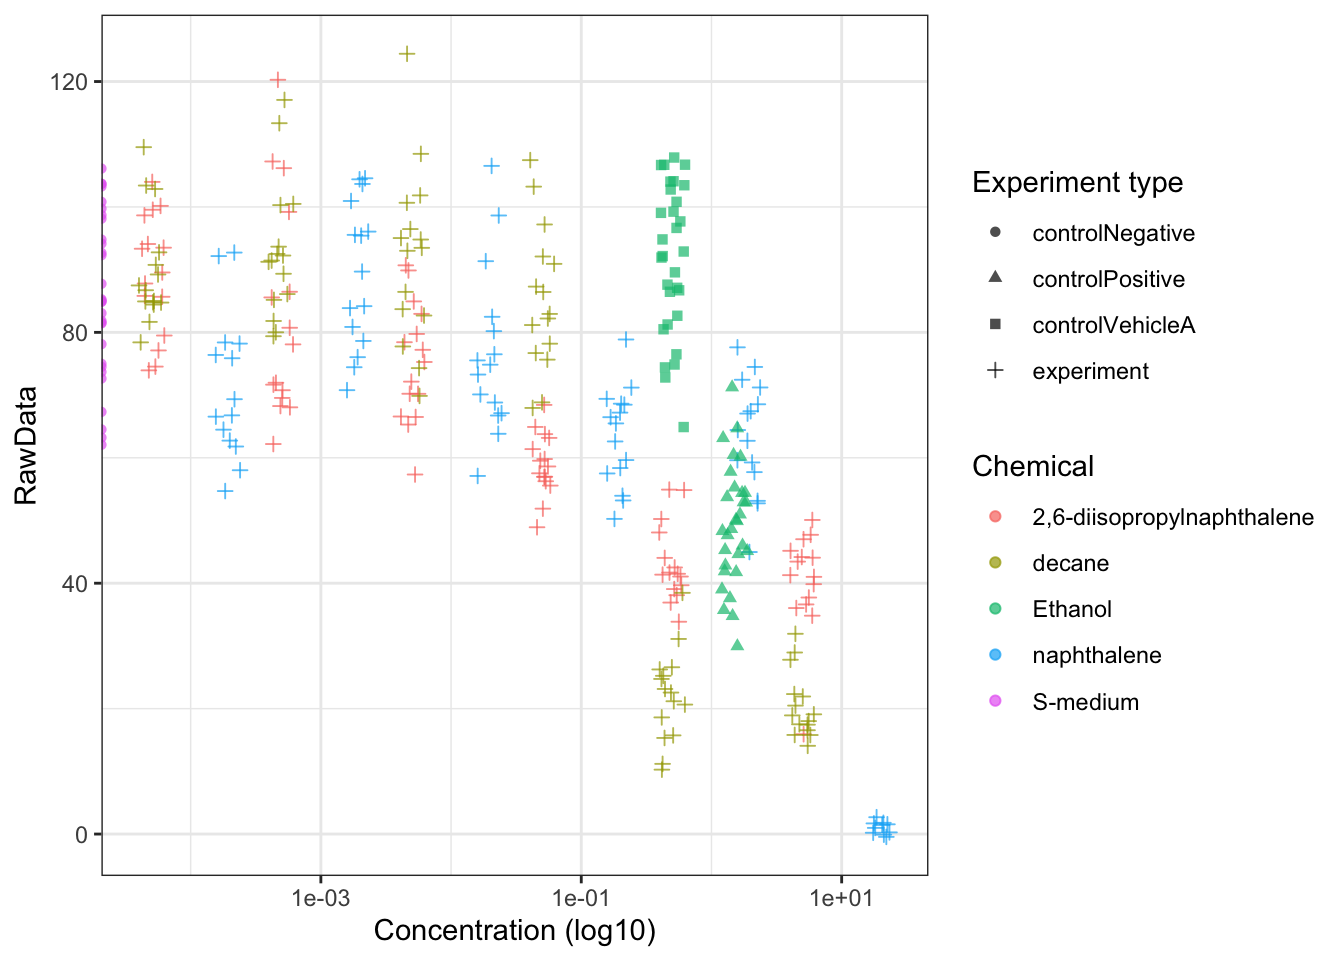
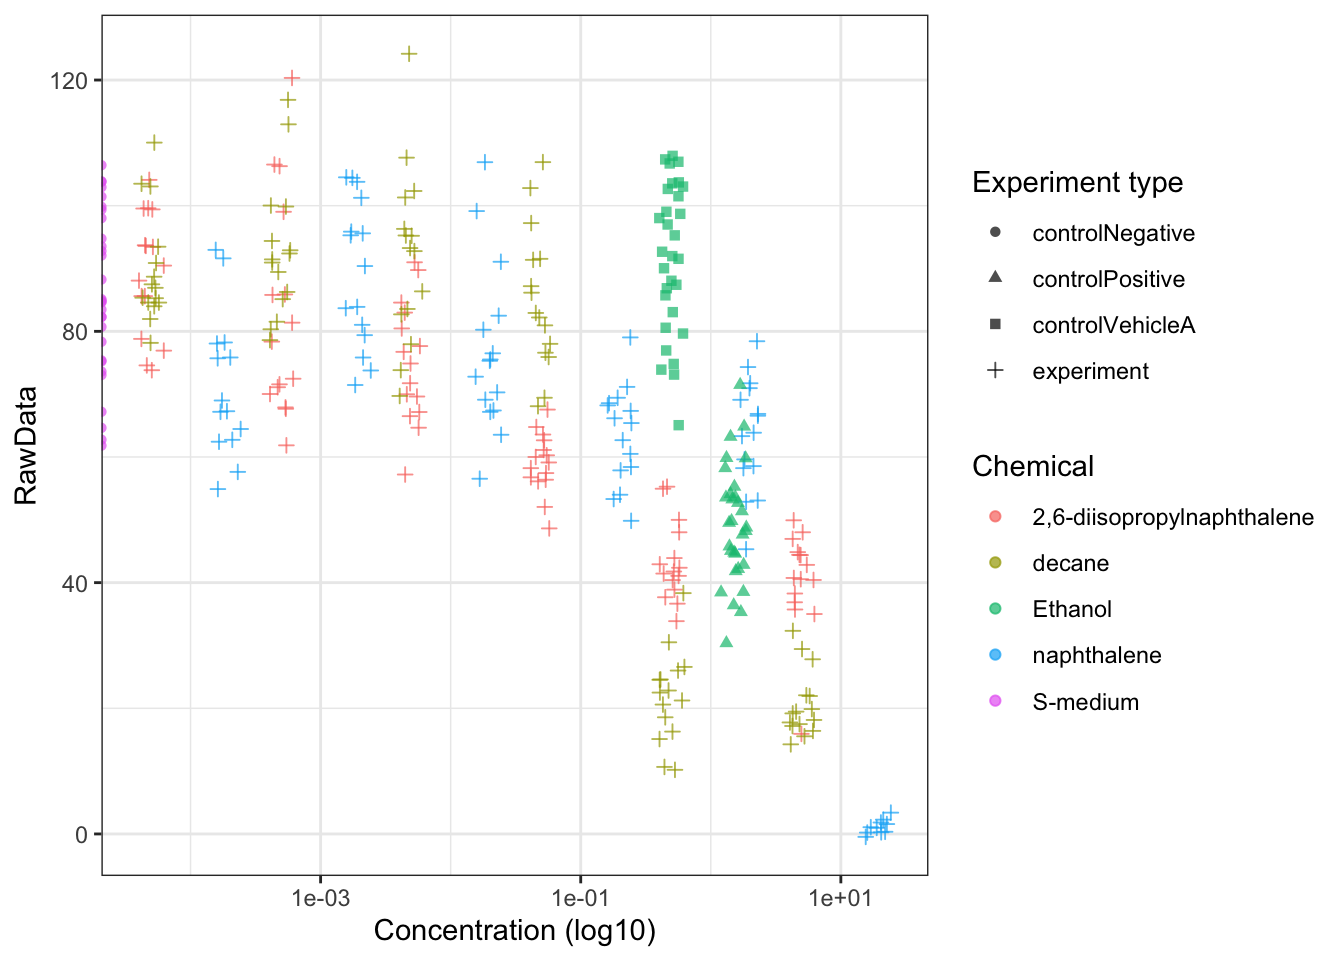
wijzigingen in CV

diff --git a/docs/cv.html b/docs/cv.html
@@ -4,23 +4,22 @@
 
   <meta charset="utf-8" />
   <meta http-equiv="X-UA-Compatible" content="IE=edge" />
-  <title>1 CV | DSFB2 Portfolio</title>
-  <meta name="description" content="1 CV | DSFB2 Portfolio" />
+  <title>1 CV | _main</title>
+  <meta name="description" content="" />
   <meta name="generator" content="bookdown 0.48 and GitBook 2.6.7" />
 
-  <meta property="og:title" content="1 CV | DSFB2 Portfolio" />
+  <meta property="og:title" content="1 CV | _main" />
   <meta property="og:type" content="book" />
   
   
   
 
   <meta name="twitter:card" content="summary" />
-  <meta name="twitter:title" content="1 CV | DSFB2 Portfolio" />
+  <meta name="twitter:title" content="1 CV | _main" />
   
   
   
 
-<meta name="author" content="Alan Davliatov" />
 
 
 
@@ -71,7 +70,7 @@
       <nav role="navigation">
 
 <ul class="summary">
-<li class="chapter" data-level="" data-path="index.html"><a href="index.html"><i class="fa fa-check"></i>Welcome</a></li>
+<li class="chapter" data-level="" data-path="index.html"><a href="index.html"><i class="fa fa-check"></i>Welcome!</a></li>
 <li class="chapter" data-level="1" data-path="cv.html"><a href="cv.html"><i class="fa fa-check"></i><b>1</b> CV</a>
 <ul>
 <li class="chapter" data-level="1.1" data-path="cv.html"><a href="cv.html#professional-summary"><i class="fa fa-check"></i><b>1.1</b> Professional Summary</a></li>
@@ -79,7 +78,7 @@
 <li class="chapter" data-level="1.3" data-path="cv.html"><a href="cv.html#education"><i class="fa fa-check"></i><b>1.3</b> Education</a></li>
 <li class="chapter" data-level="1.4" data-path="cv.html"><a href="cv.html#projects-research"><i class="fa fa-check"></i><b>1.4</b> Projects &amp; Research</a>
 <ul>
-<li class="chapter" data-level="1.4.1" data-path="cv.html"><a href="cv.html#bulk-rna-seq-analysis-of-liver-and-kidney-tissue"><i class="fa fa-check"></i><b>1.4.1</b> Bulk RNA-seq Analysis of Liver and Kidney Tissue</a></li>
+<li class="chapter" data-level="1.4.1" data-path="cv.html"><a href="cv.html#single-cell-rna-seq-analysis-of-liver-and-kidney-tissue"><i class="fa fa-check"></i><b>1.4.1</b> Single-cell RNA-seq Analysis of Liver and Kidney Tissue</a></li>
 <li class="chapter" data-level="1.4.2" data-path="cv.html"><a href="cv.html#single-cell-rna-seq-analysis-of-lung-cancer"><i class="fa fa-check"></i><b>1.4.2</b> Single-cell RNA-seq Analysis of Lung Cancer</a></li>
 <li class="chapter" data-level="1.4.3" data-path="cv.html"><a href="cv.html#r-package-development"><i class="fa fa-check"></i><b>1.4.3</b> R Package Development</a></li>
 <li class="chapter" data-level="1.4.4" data-path="cv.html"><a href="cv.html#healthcare-technology-assessment-model-for-ai-in-radiology"><i class="fa fa-check"></i><b>1.4.4</b> Healthcare Technology Assessment Model for AI in Radiology</a></li>
@@ -175,7 +174,7 @@
       <div class="body-inner">
         <div class="book-header" role="navigation">
           <h1>
-            <i class="fa fa-circle-o-notch fa-spin"></i><a href="./">DSFB2 Portfolio</a>
+            <i class="fa fa-circle-o-notch fa-spin"></i><a href="./"></a>
           </h1>
         </div>
 
@@ -194,7 +193,7 @@
 <hr />
 <div id="professional-summary" class="section level2 hasAnchor" number="1.1">
 <h2><span class="header-section-number">1.1</span> Professional Summary<a href="cv.html#professional-summary" class="anchor-section" aria-label="Anchor link to header"></a></h2>
-<p>Life Sciences student with a background in Biomedical Laboratory Research (BML) and a growing specialisation in Biomedical Data Science and Bioinformatics. Combines practical laboratory knowledge with strong skills in programming, statistical and exploratory data analysis, and biological data interpretation. Experienced in analysing bulk and single-cell RNA-seq data, visualising biological data, programming in R and Bash, developing custom R packages, building interactive Shiny applications, and creating reproducible workflows using R Markdown, Git and GitHub. Interested in applying statistical and computational methods to identify patterns, uncover biological insights and support data-driven research in biomedical datasets.</p>
+<p>Life Sciences student with a background in Biomedical Laboratory Research (BML) and a growing specialisation in Biomedical Data Science and Bioinformatics. Combines practical laboratory knowledge with strong skills in programming, statistical data analysis and biological data interpretation. Experienced in analysing RNA-seq data, visualising biological data, programming in R and Bash, developing custom R packages, building interactive Shiny applications and creating reproducible workflows using R Markdown, Git and GitHub. Interested in applying statistical and computational methods to identify patterns, uncover biological insights and support data-driven research in biomedical datasets.</p>
 <hr />
 </div>
 <div id="technical-skills" class="section level2 hasAnchor" number="1.2">
@@ -218,9 +217,9 @@ Molecular Cell Biology and Techniques · Microbiology, Immunology and Techniques
 </div>
 <div id="projects-research" class="section level2 hasAnchor" number="1.4">
 <h2><span class="header-section-number">1.4</span> Projects &amp; Research<a href="cv.html#projects-research" class="anchor-section" aria-label="Anchor link to header"></a></h2>
-<div id="bulk-rna-seq-analysis-of-liver-and-kidney-tissue" class="section level3 hasAnchor" number="1.4.1">
-<h3><span class="header-section-number">1.4.1</span> Bulk RNA-seq Analysis of Liver and Kidney Tissue<a href="cv.html#bulk-rna-seq-analysis-of-liver-and-kidney-tissue" class="anchor-section" aria-label="Anchor link to header"></a></h3>
-<p>Analysed bulk RNA-seq data to investigate differences in gene expression between liver and kidney tissue.</p>
+<div id="single-cell-rna-seq-analysis-of-liver-and-kidney-tissue" class="section level3 hasAnchor" number="1.4.1">
+<h3><span class="header-section-number">1.4.1</span> Single-cell RNA-seq Analysis of Liver and Kidney Tissue<a href="cv.html#single-cell-rna-seq-analysis-of-liver-and-kidney-tissue" class="anchor-section" aria-label="Anchor link to header"></a></h3>
+<p>Analysed single-cell RNA-seq data to investigate differences in gene expression between liver and kidney tissue.</p>
 <p><strong>Methods &amp; Tools:</strong> Rsubread · featureCounts · DESeq2 · PCA · Volcano plots · Heatmaps · Gene Ontology (GO) enrichment analysis · R Markdown</p>
 <ul>
 <li>Used Rsubread and featureCounts for read alignment and gene expression quantification.</li>
@@ -287,8 +286,8 @@ Molecular Cell Biology and Techniques · Microbiology, Immunology and Techniques
 <p><strong>Fresh Department Responsible</strong></p>
 <p>Albert Heijn, Nieuwegein, Netherlands | June 2025–Present</p>
 <ul>
-<li>Responsible for daily operations and quality management of the fresh produce department.</li>
-<li>Conduct quality checks twice daily.</li>
+<li>Responsible for daily operations and quality management of the department.</li>
+<li>Conduct quality checks multiple times a day.</li>
 <li>Monitor stock levels, product presentation and workflow.</li>
 <li>Coordinate daily tasks to maintain department standards.</li>
 </ul>
@@ -297,7 +296,7 @@ Molecular Cell Biology and Techniques · Microbiology, Immunology and Techniques
 <div id="additional-information" class="section level2 hasAnchor" number="1.7">
 <h2><span class="header-section-number">1.7</span> Additional Information<a href="cv.html#additional-information" class="anchor-section" aria-label="Anchor link to header"></a></h2>
 <p><strong>Languages:</strong> Dutch – Fluent · English – Fluent · Russian – Native</p>
-<p><strong>Interests:</strong> Biomedical Data Science · Bioinformatics and Genomics · Machine Learning · Statistical Data Analysis</p>
+<p><strong>Interests:</strong> Biomedical Data Science · Bioinformatics and Genomics · Machine Learning</p>
 
 </div>
 </div>
@@ -355,7 +354,7 @@ gitbook.start({
     "options": null
   },
   "toc": {
-    "collapse": "section"
+    "collapse": "subsection"
   }
 });
 });

diff --git a/docs/index.html b/docs/index.html
@@ -4,23 +4,22 @@
 
   <meta charset="utf-8" />
   <meta http-equiv="X-UA-Compatible" content="IE=edge" />
-  <title>DSFB2 Portfolio</title>
-  <meta name="description" content="DSFB2 Portfolio" />
+  <title>Welcome! | _main</title>
+  <meta name="description" content="" />
   <meta name="generator" content="bookdown 0.48 and GitBook 2.6.7" />
 
-  <meta property="og:title" content="DSFB2 Portfolio" />
+  <meta property="og:title" content="Welcome! | _main" />
   <meta property="og:type" content="book" />
   
   
   
 
   <meta name="twitter:card" content="summary" />
-  <meta name="twitter:title" content="DSFB2 Portfolio" />
+  <meta name="twitter:title" content="Welcome! | _main" />
   
   
   
 
-<meta name="author" content="Alan Davliatov" />
 
 
 
@@ -71,24 +70,21 @@
       <nav role="navigation">
 
 <ul class="summary">
-<li class="chapter" data-level="" data-path="index.html"><a href="index.html"><i class="fa fa-check"></i>Welcome</a></li>
+<li class="chapter" data-level="" data-path="index.html"><a href="index.html"><i class="fa fa-check"></i>Welcome!</a></li>
 <li class="chapter" data-level="1" data-path="cv.html"><a href="cv.html"><i class="fa fa-check"></i><b>1</b> CV</a>
 <ul>
 <li class="chapter" data-level="1.1" data-path="cv.html"><a href="cv.html#professional-summary"><i class="fa fa-check"></i><b>1.1</b> Professional Summary</a></li>
 <li class="chapter" data-level="1.2" data-path="cv.html"><a href="cv.html#technical-skills"><i class="fa fa-check"></i><b>1.2</b> Technical Skills</a></li>
-<li class="chapter" data-level="1.3" data-path="cv.html"><a href="cv.html#education"><i class="fa fa-check"></i><b>1.3</b> Education</a>
-<ul>
-<li class="chapter" data-level="1.3.1" data-path="cv.html"><a href="cv.html#bachelors-degree-in-life-sciences"><i class="fa fa-check"></i><b>1.3.1</b> Bachelor’s Degree in Life Sciences</a></li>
-</ul></li>
+<li class="chapter" data-level="1.3" data-path="cv.html"><a href="cv.html#education"><i class="fa fa-check"></i><b>1.3</b> Education</a></li>
 <li class="chapter" data-level="1.4" data-path="cv.html"><a href="cv.html#projects-research"><i class="fa fa-check"></i><b>1.4</b> Projects &amp; Research</a>
 <ul>
-<li class="chapter" data-level="1.4.1" data-path="cv.html"><a href="cv.html#rna-seq-and-single-cell-rna-seq-analysis"><i class="fa fa-check"></i><b>1.4.1</b> RNA-seq and Single-cell RNA-seq Analysis</a></li>
+<li class="chapter" data-level="1.4.1" data-path="cv.html"><a href="cv.html#single-cell-rna-seq-analysis-of-liver-and-kidney-tissue"><i class="fa fa-check"></i><b>1.4.1</b> Single-cell RNA-seq Analysis of Liver and Kidney Tissue</a></li>
+<li class="chapter" data-level="1.4.2" data-path="cv.html"><a href="cv.html#single-cell-rna-seq-analysis-of-lung-cancer"><i class="fa fa-check"></i><b>1.4.2</b> Single-cell RNA-seq Analysis of Lung Cancer</a></li>
+<li class="chapter" data-level="1.4.3" data-path="cv.html"><a href="cv.html#r-package-development"><i class="fa fa-check"></i><b>1.4.3</b> R Package Development</a></li>
+<li class="chapter" data-level="1.4.4" data-path="cv.html"><a href="cv.html#healthcare-technology-assessment-model-for-ai-in-radiology"><i class="fa fa-check"></i><b>1.4.4</b> Healthcare Technology Assessment Model for AI in Radiology</a></li>
 </ul></li>
-<li class="chapter" data-level="1.5" data-path="cv.html"><a href="cv.html#professional-experience"><i class="fa fa-check"></i><b>1.5</b> Professional Experience</a>
-<ul>
-<li class="chapter" data-level="1.5.1" data-path="cv.html"><a href="cv.html#fresh-department-responsible-albert-heijn"><i class="fa fa-check"></i><b>1.5.1</b> Fresh Department Responsible | Albert Heijn</a></li>
-</ul></li>
-<li class="chapter" data-level="1.6" data-path="cv.html"><a href="cv.html#certifications-courses"><i class="fa fa-check"></i><b>1.6</b> Certifications &amp; Courses</a></li>
+<li class="chapter" data-level="1.5" data-path="cv.html"><a href="cv.html#internship-experience"><i class="fa fa-check"></i><b>1.5</b> Internship Experience</a></li>
+<li class="chapter" data-level="1.6" data-path="cv.html"><a href="cv.html#work-experience"><i class="fa fa-check"></i><b>1.6</b> Work Experience</a></li>
 <li class="chapter" data-level="1.7" data-path="cv.html"><a href="cv.html#additional-information"><i class="fa fa-check"></i><b>1.7</b> Additional Information</a></li>
 </ul></li>
 <li class="chapter" data-level="2" data-path="toekomstplan.html"><a href="toekomstplan.html"><i class="fa fa-check"></i><b>2</b> Toekomstplan</a>
@@ -178,7 +174,7 @@
       <div class="body-inner">
         <div class="book-header" role="navigation">
           <h1>
-            <i class="fa fa-circle-o-notch fa-spin"></i><a href="./">DSFB2 Portfolio</a>
+            <i class="fa fa-circle-o-notch fa-spin"></i><a href="./"></a>
           </h1>
         </div>
 
@@ -186,18 +182,17 @@
           <div class="page-inner">
 
             <section class="normal" id="section-">
-<div id="header">
-<h1 class="title">DSFB2 Portfolio</h1>
-<p class="author"><em>Alan Davliatov</em></p>
+<!--bookdown:title:end-->
+<!--bookdown:title:start-->
+<div id="welcome" class="section level1 unnumbered hasAnchor" style="text-align: center;">
+<h1>Welcome!<a href="index.html#welcome" class="anchor-section" aria-label="Anchor link to header"></a></h1>
+<p>Welcome to my Data Science for Biology 2 portfolio.</p>
+<p><img src="images/welcome_picture.png" style="width:75.0%" /></p>
+<p>This portfolio showcases my learning journey throughout the DSFB2 course, highlighting the development of my skills in biological data analysis, programming and bioinformatics. It brings together the assignments, projects and practical work I have completed during the course, reflecting both my progress and the knowledge I have gained.</p>
 </div>
-<div id="welcome" class="section level1 unnumbered hasAnchor">
-<h1>Welcome<a href="index.html#welcome" class="anchor-section" aria-label="Anchor link to header"></a></h1>
-<p>Welcome to my Data Science for Biology portfolio.</p>
-<p>In this portfolio, I document my development throughout the DSFB2 course.</p>
 <hr />
-<p><small>Data Science for Biology 2 · 2026–2027</small></p>
+<p><small>Alan Davliatov · Data Science for Biology 2 · 2026–2027</small></p>
 
-</div>
             </section>
 
           </div>
@@ -252,7 +247,7 @@ gitbook.start({
     "options": null
   },
   "toc": {
-    "collapse": "section"
+    "collapse": "subsection"
   }
 });
 });

diff --git a/docs/1a_CV.md b/docs/1a_CV.md
@@ -16,7 +16,7 @@ Nieuwegein, UT
 
 ## Professional Summary
 
-Life Sciences student with a background in Biomedical Laboratory Research (BML) and a growing specialisation in Biomedical Data Science and Bioinformatics. Combines practical laboratory knowledge with strong skills in programming, statistical and exploratory data analysis, and biological data interpretation. Experienced in analysing bulk and single-cell RNA-seq data, visualising biological data, programming in R and Bash, developing custom R packages, building interactive Shiny applications, and creating reproducible workflows using R Markdown, Git and GitHub. Interested in applying statistical and computational methods to identify patterns, uncover biological insights and support data-driven research in biomedical datasets.
+Life Sciences student with a background in Biomedical Laboratory Research (BML) and a growing specialisation in Biomedical Data Science and Bioinformatics. Combines practical laboratory knowledge with strong skills in programming, statistical data analysis and biological data interpretation. Experienced in analysing RNA-seq data, visualising biological data, programming in R and Bash, developing custom R packages, building interactive Shiny applications and creating reproducible workflows using R Markdown, Git and GitHub. Interested in applying statistical and computational methods to identify patterns, uncover biological insights and support data-driven research in biomedical datasets.
 
 ---
 
@@ -50,9 +50,9 @@ Completed the first 3 years of the programme Biomedical Laboratory Research (BML
 
 ## Projects & Research
 
-### Bulk RNA-seq Analysis of Liver and Kidney Tissue
+### Single-cell RNA-seq Analysis of Liver and Kidney Tissue
 
-Analysed bulk RNA-seq data to investigate differences in gene expression between liver and kidney tissue.
+Analysed single-cell RNA-seq data to investigate differences in gene expression between liver and kidney tissue.
 
 **Methods & Tools:** Rsubread · featureCounts · DESeq2 · PCA · Volcano plots · Heatmaps · Gene Ontology (GO) enrichment analysis · R Markdown
 
@@ -121,8 +121,8 @@ VWA, Dronten, Netherlands | August 2023 - December 2023
 
 Albert Heijn, Nieuwegein, Netherlands | June 2025–Present
 
-- Responsible for daily operations and quality management of the fresh produce department.
-- Conduct quality checks twice daily.
+- Responsible for daily operations and quality management of the department.
+- Conduct quality checks multiple times a day.
 - Monitor stock levels, product presentation and workflow.
 - Coordinate daily tasks to maintain department standards.
 
@@ -132,4 +132,4 @@ Albert Heijn, Nieuwegein, Netherlands | June 2025–Present
 
 **Languages:** Dutch – Fluent · English – Fluent · Russian – Native
 
-**Interests:** Biomedical Data Science · Bioinformatics and Genomics · Machine Learning · Statistical Data Analysis
+**Interests:** Biomedical Data Science · Bioinformatics and Genomics · Machine Learning

diff --git a/docs/index.md b/docs/index.md
@@ -1,20 +1,20 @@
 ---
-title: "DSFB2 Portfolio"
-author: "Alan Davliatov"
 site: bookdown::bookdown_site
-output:
-  bookdown::gitbook:
-    config:
-      toc:
-        collapse: section
+output: bookdown::gitbook
 ---
 
-# Welcome {-}
+<div style="text-align: center;">
 
-Welcome to my Data Science for Biology portfolio.
+# Welcome! {-}
 
-In this portfolio, I document my development throughout the DSFB2 course.
+Welcome to my Data Science for Biology 2 portfolio.
+
+![](images/welcome_picture.png){width=75%}
+
+This portfolio showcases my learning journey throughout the DSFB2 course, highlighting the development of my skills in biological data analysis, programming and bioinformatics. It brings together the assignments, projects and practical work I have completed during the course, reflecting both my progress and the knowledge I have gained.
+
+</div>
 
 ---
 
-<small>Data Science for Biology 2 · 2026–2027</small>
+<small>Alan Davliatov · Data Science for Biology 2 · 2026–2027</small>
